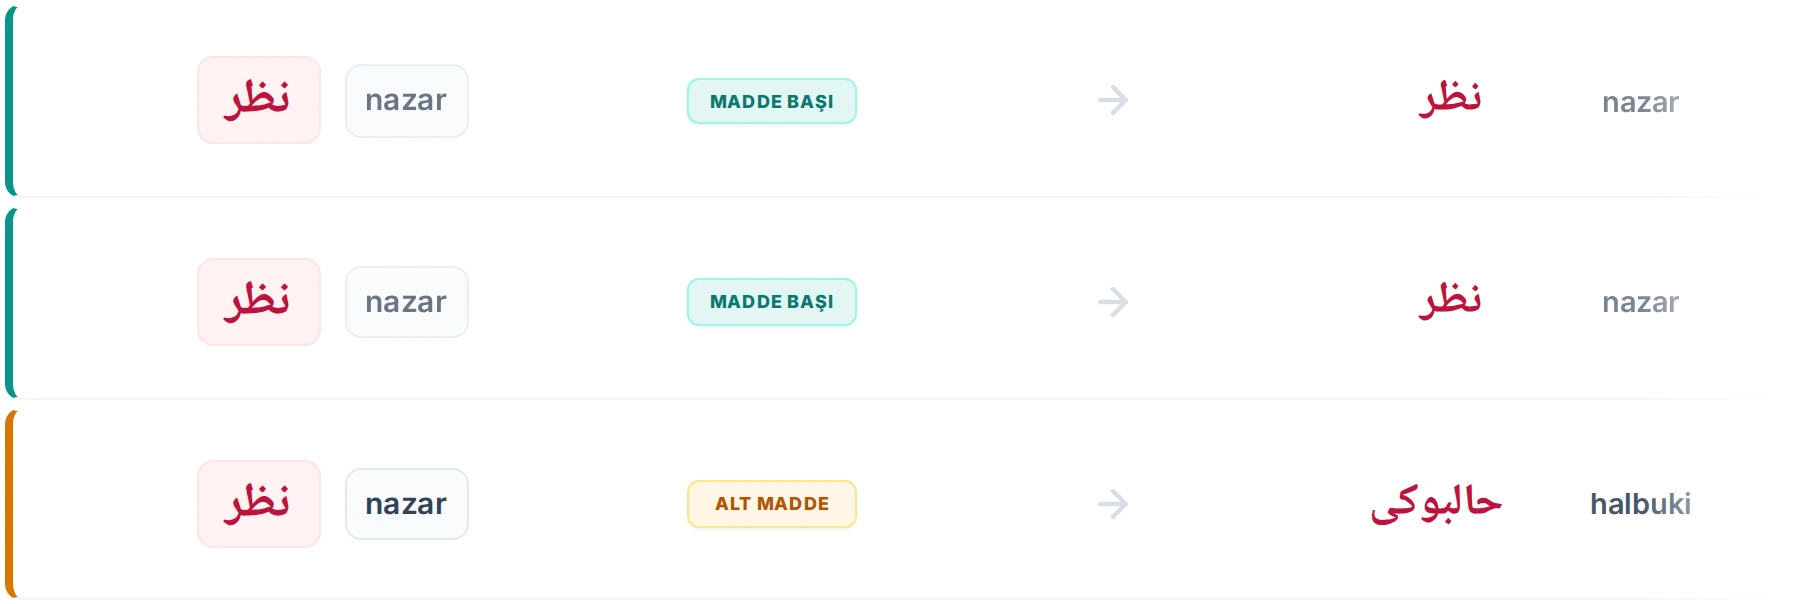
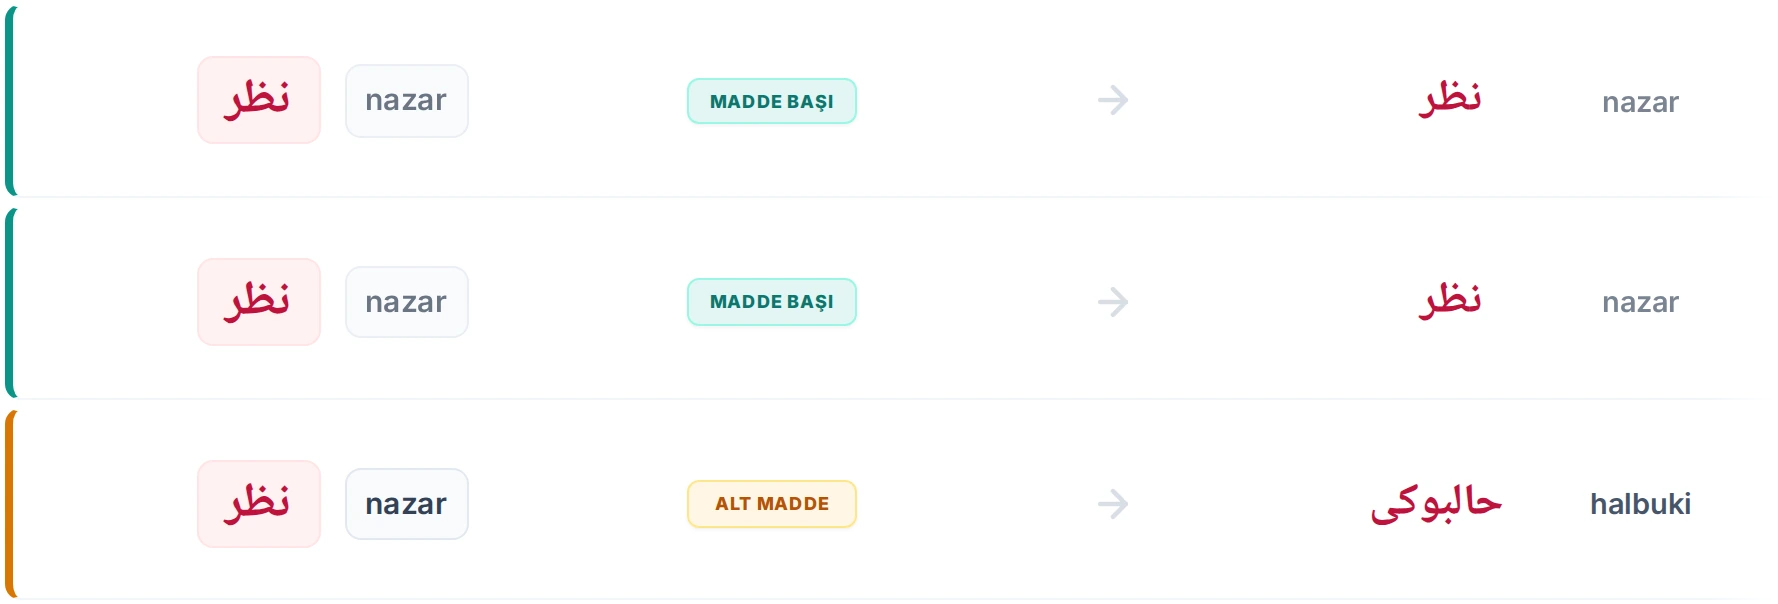
Kilavuz B3: sag kenar sonumlemesi yazilara degmeyecek sekilde daraltildi (halbuki tamamen koyu)

diff --git a/pages/kullanim-kilavuzu-tr.html b/pages/kullanim-kilavuzu-tr.html
@@ -101,7 +101,7 @@ h2{margin:3.1rem 0 1.05rem;padding-top:.25rem}
   <div class="layout">
       <nav class="toc" aria-label="Bu sayfada"><p class="toc-title">Bu sayfada</p><a href="#ana-sayfa">Ana Sayfa</a><a href="#sonuclar">Arama Sonuçları</a><a href="#sozluk-sayfasi">Sözlük Sayfası</a><a href="#cozucu">Kelime Çözücü</a><a href="#cozucu-sonuc">Kelime Çözücü Sonuçları</a></nav>
       <main class="guide-steps">
-    <section aria-labelledby="ana-sayfa"><h2 id="ana-sayfa">Ana Sayfa</h2><p class="section-intro">LexiQamus iki ayrı arama biçimi sunar. <b>Ara</b> sekmesi okuyabildiğiniz bir kelimeyi doğrudan aramak, <b>Kelime Çözücü</b> ise okuyamadığınız bir kelimeyi elinizdeki ipuçlarından yola çıkarak tespit etmek içindir. İki sekme arasında istediğiniz an geçiş yapabilirsiniz.</p><figure class="shot shot-map" style="--nw:1879;--ar:6.8828"><div class="map"><img src="../assets/kilavuz/a-genel.webp?v=2" width="1879" height="273" alt="Ana sayfanın arama alanı: Kelime Çözücü ve Ara sekmeleri, arama kutusu, Ara düğmesi ve sözlük listesi"><a class="pin pin-sec pin-top" href="#cozucu" style="--x:44.39%;--ty:0.0769" aria-label="B">B</a><a class="pin  pin-top" href="#ara-genel" style="--x:55.56%;--ty:0.0769" aria-label="A1">A1</a><a class="pin pin-bottom" href="#osm-ing" style="--x:6.55%;--ty:0.7289" aria-label="A3">A3</a><a class="pin pin-bottom" href="#iki-taraf" style="--x:16.66%;--ty:0.7289" aria-label="A2">A2</a><a class="pin  pin-bottom" href="#klavye" style="--x:55.51%;--ty:0.7363" aria-label="A3">A3</a><a class="pin  pin-bottom" href="#sozlukler" style="--x:83.18%;--ty:0.7326" aria-label="A4">A4</a></div></figure><article class="block" id="ara-genel"><h3>Ara sekmesi</h3><p>Arama satırı tek bir çubuktan oluşur: solda kelimeyi Latin harfleriyle, sağda Osmanlı harfleriyle yazabileceğiniz alanlar, hemen yanında da hangi sözlüklerde arama yapılacağını belirlediğiniz liste yer alır.</p></article><article class="block" id="iki-taraf"><h3>Arama kutusu: iki taraf, iki alfabe</h3><p>Arama kutusu iki yarıdan oluşur. Sol yarıya kelimeyi <b>Latin harfleriyle</b>, sağ yarıya <b>Osmanlı harfleriyle</b> yazarsınız. İkisini birlikte de kullanabilirsiniz; kelimeyi nasıl okuduğunuzu biliyorsanız Latin tarafına yazmanız yeterlidir.</p><figure class="shot " style="--nw:1686;--ar:11.7902"><img src="../assets/kilavuz/a2-1.webp?v=2" width="1686" height="143" loading="lazy" alt=""></figure></article><article class="block" id="osm-ing"><h3>OSM ve İNG: nerede aranacağı</h3><p>Kutunun başındaki <b>OSM</b> ve <b>İNG</b> düğmeleri, yazdığınızın nerede aranacağını belirler. <b>OSM</b> seçiliyken Osmanlıca kelimeler arasında arama yapılır. <b>İNG</b> seçildiğinde ise arama sözlüklerdeki İngilizce tanımların içinde yapılır; böylece bir İngilizce kelimeyi tanımında geçiren bütün maddeleri görebilirsiniz.</p><figure class="shot shot-narrow" style="--nw:520;--ar:3.6364"><img src="../assets/kilavuz/a3-osm-ing.webp" width="520" height="143" loading="lazy" alt="Arama kutusunun başındaki OSM ve İNG düğmeleri"></figure></article><article class="block" id="klavye"><h3>Osmanlıca yazmak</h3><p>Osmanlıca tarafa tıkladığınızda ekran klavyesi açılır. Harflere tek tek tıklayarak yazabilirsiniz.</p><p>Fakat klavyeyi kullanmak zorunda değilsiniz. Her tuşun üzerinde, o harfe karşılık gelen fiziksel klavye tuşu yazılıdır: <b>A</b> tuşu ا, <b>B</b> tuşu ب, <b>SHF+S</b> ص harfini verir. Yani kelimeyi kendi klavyenizden hızlıca yazabilir, sadece emin olmadığınız harfler için ekrana bakabilirsiniz.</p><figure class="shot" style="--nw:1322;--ar:3.4072"><img src="../assets/kilavuz/a3-1.webp?v=3" width="1322" height="388" loading="lazy" alt="Osmanlıca tarafı seçili arama kutusu ve altında açılan ekran klavyesi"></figure></article><article class="block" id="sozlukler"><h3>Sözlük seçimi</h3><p>Öntanımlı olarak bütün sözlüklerde arama yapılır. Listeyi açıp <b>Tümünü Seç</b> işaretini kaldırdığınızda sözlükleri tek tek seçebilirsiniz.</p><p>Bu, aramayı belirli eserlerle sınırlamak istediğinizde işinize yarar: yalnızca seçtiğiniz sözlüklerden gelen sonuçlar listelenir.</p><figure class="shot shot-narrow" style="--s:0.75;--nw:613;--ar:0.8490"><img src="../assets/kilavuz/a4-1.webp?v=2" width="613" height="722" loading="lazy" alt=""></figure></article></section><section aria-labelledby="sonuclar"><h2 id="sonuclar">Arama Sonuçları</h2><p class="section-intro">Her iki arama biçimi de sizi aynı sonuç listesine götürür. Liste dört sütuna ayrılmıştır ve her satır, bir sözlükte geçen tek bir kaydı gösterir.</p><figure class="shot shot-map" style="--cap:100000px;--nw:1689;--ar:0.7008"><div class="map bands"><img src="../assets/kilavuz/b-ara-sonuclari.webp?v=3" width="1689" height="2410" alt="arı araması: arama kutusu, sonuç başlığı ve Tam Eşleşmeler, Çekimli Biçimler, Türemiş Biçimler, İbareler ve Birleşik Kelimeler, Kısmi Eşleşmeler grupları"><a class="pin pin-right" href="#yazilis-okunus" style="--px:0.7851;--ty:0.1510">·</a><a class="pin pin-right" href="#benzer-okunus" style="--px:0.9728;--ty:0.1884">·</a><a class="pin pin-left" href="#latin-okunuslar" style="--px:0.1835;--ty:0.2979">·</a><a class="pin pin-left" href="#iki-bolge" style="--px:0.0278;--ty:0.3432">·</a><a class="pin pin-top" href="#kategoriler" style="--px:0.3825;--ty:0.2154">·</a><a class="pin pin-right" href="#sozluk-kunye" style="--px:0.9372;--ty:0.2979">·</a></div></figure><article class="block" id="yazilis-okunus"><h3>Yazılışa göre ara</h3><p><b>Yazılışa Göre Ara</b>, aradığınız ifadenin muhtemel yazılış ve okunuşlarını düğmeler halinde sunar. Bir düğmeye tıkladığınızda arama o yazılışa göre yenilenir. Bu yazılış ve okunuşlar bir tahmin değildir; sözlükleri dijitalleştirirken sisteme veri olarak girdiğimiz kayıtlardan gelir. Böylece aynı kelimenin farklı imla ve okunuşlarına tek tıkla geçebilirsiniz.</p><figure class="shot" style="--nw:366;--ar:3.6600"><img src="../assets/kilavuz/b1-yazilis.webp?v=2" width="366" height="100" loading="lazy" alt="arı araması: Yazılışa göre ara düğmeleri (ارى, arı, ârî, eri)"></figure></article><article class="block" id="benzer-okunus"><h3>Benzer Okunuş</h3><p>Osmanlı alfabesinde aynı ya da çok yakın okunan birden fazla harf vardır: <span dir="rtl">ث</span> ile <span dir="rtl">س</span>, <span dir="rtl">ت</span> ile <span dir="rtl">ط</span> gibi. Bir kelimeyi duyduğunuz gibi yazdığınızda, sözlükteki imlası sizinkinden farklı olabilir. <b>Benzer Okunuş</b>, aramanızdaki harflerin yerine ses bakımından benzerlerini de koyarak arar; böylece imlası farklı olduğu için gözden kaçacak sonuçları da listeye ekler. Düğmenin yanındaki sayı, bu genişletmenin kaç sonuç getirdiğini gösterir.</p><figure class="shot" style="--nw:687;--ar:7.0102"><img src="../assets/kilavuz/b2-benzer-okunus.webp" width="687" height="98" loading="lazy" alt="Aramayı genişlet: Tam Eşleşme ve Benzer Okunuş düğmeleri"></figure></article><article class="block" id="latin-okunuslar"><h3>Latin okunuşlar</h3><p>Sonuç satırlarında her Osmanlıca kelimenin yanında bir Latin okunuşu yer alır. Bu okunuşların bir kısmı editörlerimiz tarafından tek tek kontrol edilip onaylanmıştır. Geri kalanı ise Osmanlıca yazılıştan hareketle otomatik olarak üretilmiştir ve bu yüzden her zaman isabetli olmayabilir.</p><p>İkisini ilk bakışta ayırt edebilirsiniz: otomatik üretilmiş okunuşlar soluk, editör onaylı okunuşlar koyu renkte gösterilir. Aşağıdaki ilk iki satırdaki <i>nazar</i> otomatik üretilmiştir, üçüncü satırdaki ise editör onaylıdır.</p><figure class="shot" style="--s:0.5;--nw:1800;--ar:2.9801"><img src="../assets/kilavuz/b-okunus-renk.webp" width="1800" height="604" loading="lazy" alt="Soluk renkte otomatik üretilmiş okunuşlar ve koyu renkte editör onaylı okunuş"></figure><p>Bir okunuşun üzerine geldiğinizde yanında küçük bir kutu açılır. Kutunun başındaki etiket okunuşun durumunu söyler: <b>Otomatik üretim</b> ya da <b>Editör onaylı</b>. Altındaki iki düğme ise okunuş hakkında bize geri bildirim vermeniz içindir.</p><figure class="shot shot-narrow" style="--s:0.5;--nw:924;--ar:2.2000"><img src="../assets/kilavuz/b-okunus-kutu.webp" width="924" height="420" loading="lazy" alt="Okunuşun üzerine gelince açılan kutu: Otomatik üretim ve Editör onaylı etiketleri, Doğru ve Düzelt düğmeleri"></figure><p><b>Doğru</b> düğmesiyle okunuşun isabetli olduğunu tek tıkla bildirirsiniz; düğme yeşile döner. Otomatik üretilmiş okunuşlarda bu işaret, hangi okunuşların doğru olduğunu görmemize yardımcı olur.</p><figure class="shot shot-narrow" style="--s:0.5;--nw:924;--ar:4.5743"><img src="../assets/kilavuz/b-okunus-dogru.webp" width="924" height="202" loading="lazy" alt="Doğru düğmesine basılmış hâli"></figure><p><b>Düzelt</b> düğmesi bir bildirim penceresi açar. Pencerenin başında kelimenin Osmanlıca yazılışı ile okunuşu durur, altında üç seçenek bulunur. <b>Yanlış</b> pencere açıldığında seçili gelir ve okunuşun neden yanlış olduğunu açıklamanızı ister; doğrusunu biliyorsanız onu da yazabilirsiniz. Okunuşun doğru olduğunu belirtip bir not eklemek isterseniz <b>Doğru</b>’yu seçersiniz; bu durumda not yazmak isteğe bağlıdır. Doğru ya da yanlış demeden okunuş hakkında söylemek istediğiniz bir şey varsa <b>Görüş</b>’ü kullanırsınız.</p><figure class="shot shot-narrow" style="--s:0.5;--nw:680;--ar:1.0759"><img src="../assets/kilavuz/b-okunus-bildirim.webp" width="680" height="632" loading="lazy" alt="Düzelt ile açılan bildirim penceresi: Doğru, Yanlış, Görüş seçenekleri ve açıklama alanı"></figure><p>Açıklamanızı yazıp <b>Gönder</b>’e bastığınızda bildiriminiz bize ulaşır ve pencerede bir teşekkür mesajı görünür. Vazgeçerseniz <b>İptal</b>’e basmanız yeterlidir.</p><figure class="shot shot-narrow" style="--s:0.5;--nw:680;--ar:1.5888"><img src="../assets/kilavuz/b-okunus-tesekkur.webp" width="680" height="428" loading="lazy" alt="Gönderdikten sonra görünen teşekkür penceresi"></figure></article><article class="block" id="kategoriler"><h3>Kelime kategorileri</h3><p>Kategori etiketi, sonucun maddeyle nasıl bir ilişki içinde olduğunu söyler ve satırın solundaki renkli çizgi de aynı ayrımı yapar.</p><p><b>Madde Başı</b>: kelime, sözlükte kendi adına açılmış bir maddenin başlığıdır.</p><p><b>Alt Madde Başı</b>: kelime, bir madde başının altında ayrıca ele alınmış bir alt maddedir.</p><p><b>İlişkili</b>: kelime maddenin başlığı değildir, madde içinde geçmektedir yahut o maddeyle bağlantılıdır.</p><figure class="shot" style="--nw:1129;--ar:2.7403"><img src="../assets/kilavuz/b3-kategoriler.webp" width="1129" height="412" loading="lazy" alt="Kategori örnekleri: Madde Başı (yeşil), Alt Madde Başı (turuncu) ve İlişkili (mavi) satırları"></figure></article><article class="block" id="iki-bolge"><h3>Satırda iki tıklama bölgesi</h3><p>Her satır iki ayrı bölgeye ayrılır ve hangisine tıkladığınız sizi farklı yere götürür. İmleci satırın üzerine getirdiğinizde hangi bölgede olduğunuz renklenerek belli olur.</p><p>Sol bölge, yani sonuç kelimesinin kendisi: <b>Sonuca git</b>. Orijinal sözlük sayfası açılır ve doğrudan kelimenin geçtiği yer karşınıza gelir. Buradan yukarı kaydırarak maddenin başına da çıkabilirsiniz.</p><p>Sağ bölge, yani madde başı ve sözlük bilgisi: <b>Madde başına git</b>. Aynı sayfa açılır, fakat bu kez doğrudan maddenin başından.</p><figure class="shot " style="--nw:1700;--ar:9.6045"><img src="../assets/kilavuz/c2-1.webp" width="1700" height="177" loading="lazy" alt=""></figure><figure class="shot " style="--nw:1700;--ar:9.6045"><img src="../assets/kilavuz/c2-2.webp" width="1700" height="177" loading="lazy" alt=""></figure></article><article class="block" id="sozluk-kunye"><h3>Sözlük ve künye</h3><p>Sütunun sağ ucundaki düğme o kaydın künye bilgilerini açar. Eserin adı, yazarı, yılı, cildi ve sayfası burada toplu olarak yer alır.</p><p>Künye penceresinde atıf üç ayrı biçimde hazır olarak sunulur: APA, Chicago ve Harvard. Kullanacağınız biçimi seçip tek düğmeyle kopyalayabilirsiniz.</p><figure class="shot shot-narrow" style="--s:1;--nw:249;--ar:3.1519"><img src="../assets/kilavuz/b-kunye-hucre.webp" width="249" height="79" loading="lazy" alt="Sözlük sütunu: Kamus-ı Türki, 1899, sayfa 31 ve kopyalama düğmesi"></figure><figure class="shot" style="--s:.5;--nw:1242;--ar:1.0991"><img src="../assets/kilavuz/b-kunye-pencere.webp" width="1242" height="1130" loading="lazy" alt="Künye Bilgileri penceresi: Kamus-ı Türki, Şemseddin Sami, 1899, cilt 1, sayfa 31"></figure></article><article class="block" id="tara"><h3>Benzer Eşleşmeleri Tara</h3><p>Aradığınızı listede bulamadıysanız sayfanın altındaki bu düğmeye basın.</p><p>LexiQamus, girdiğiniz yazılışa harf harf yakın duran kelimeleri tarar ve numaralı bir liste halinde önünüze getirir. Yanlış okunmuş tek bir harf yüzünden gözden kaçan kelime çoğu zaman bu listede çıkar.</p><figure class="shot shot-narrow" style="--s:0.75;--nw:387;--ar:3.7212"><img src="../assets/kilavuz/c7-1.webp?v=2" width="387" height="104" loading="lazy" alt=""></figure><figure class="shot shot-narrow" style="--s:.5;--cap:100000px;--nw:880;--ar:0.4143"><img src="../assets/kilavuz/b-bunu-mu.webp?v=2" width="880" height="2124" loading="lazy" alt="Bunu mu demek istediniz? listesi: arı aramasına yakın 14 yazılış ve okunuşları"></figure></article></section><section aria-labelledby="sozluk-sayfasi"><h2 id="sozluk-sayfasi">Sözlük Sayfası</h2><p class="section-intro">Bir sonuca yahut madde başına tıkladığınızda sözlüğün orijinal sayfası bir pencerede açılır. Bu pencere yalnızca taramayı göstermez: o sayfada dijitalleştirilmiş kelimeleri tarama üzerinde işaretler ve her birinin dijital karşılığını gösterir.</p><article class="block" id="dilim-sutun-sayfa"><h3>Dilim, Sütun, Sayfa</h3><p>Pencere ilk açıldığında <b>Dilim</b> görünümü etkindir. Alttaki şerit, aradığınız yerin sözlüğün kaçıncı sayfasında, hangi sütununda ve o sütunun kaçıncı diliminde olduğunu söyler.</p><p><b>Sütun</b>'a tıkladığınızda sütunun tamamı açılır. <b>Sayfa</b>'ya tıkladığınızda ise sayfanın tamamını görürsünüz. Dijitalleştirilmiş kelimeler üç görünümde de işaretli kalır.</p><figure class="shot " style="--nw:1428;--ar:1.8889"><img src="../assets/kilavuz/d1-1.webp" width="1428" height="756" loading="lazy" alt=""></figure><figure class="shot " style="--nw:1432;--ar:1.6947"><img src="../assets/kilavuz/d1-2.webp" width="1432" height="845" loading="lazy" alt=""></figure><figure class="shot " style="--nw:1436;--ar:1.6974"><img src="../assets/kilavuz/d1-3.webp" width="1436" height="846" loading="lazy" alt=""></figure></article><article class="block" id="renkli-kutular"><h3>Renkli kutular</h3><p>Maddede dijitalleştirilmiş olan kelimeler tarama üzerinde kutu içine alınır. Kutuların rengi kelime kategorisine göre değişir; sonuç listesindeki kategori ayrımının aynısı burada da geçerlidir.</p><p>Gri duran kelimeler de dijitalleştirilmiştir. Üzerlerine geldiğinizde renklenir ve dijital karşılıkları görünür.</p><figure class="shot " style="--nw:947;--ar:1.3886"><img src="../assets/kilavuz/d2-1.webp" width="947" height="682" loading="lazy" alt=""></figure></article><article class="block" id="kelime-uzerine"><h3>Kelimenin dijital karşılığı</h3><p>Bir kutunun üzerine geldiğinizde kelimenin Osmanlıca yazılışı ve Latin okunuşu alt alta belirir.</p><p>Kelime bir öbeğin parçasıysa iki katman birden görürsünüz: üstte imlecin bulunduğu kelimenin dijitali, altta öbeğin tamamının dijitali.</p><figure class="shot shot-narrow" style="--nw:222;--ar:0.6491"><img src="../assets/kilavuz/d3-1.webp" width="222" height="342" loading="lazy" alt=""></figure><figure class="shot shot-narrow" style="--nw:357;--ar:1.0142"><img src="../assets/kilavuz/d3-2.webp" width="357" height="352" loading="lazy" alt=""></figure></article><article class="block" id="kelimeye-tikla"><h3>Kelimeye tıklamak</h3><p>Tarama üzerindeki bir kelimeye yahut beliren dijital değerlerin üzerine tıkladığınızda o kelime için yeni bir arama başlar ve yeni sekmede açılır. Böylece okuduğunuz maddeden ayrılmadan yan yollara girebilirsiniz.</p><figure class="shot shot-narrow" style="--nw:357;--ar:1.0142"><img src="../assets/kilavuz/d4-1.webp" width="357" height="352" loading="lazy" alt=""></figure></article><article class="block" id="hata-bildir"><h3>Hata bildirme</h3><p>Dijitalleştirmede bir hata olduğunu düşünüyorsanız kelimenin üzerine gelin ve yanında beliren uyarı işaretine basın.</p><p>Açılan pencerede kelime hazır olarak gelir. Altındaki alana hatayı yahut önerdiğiniz düzeltmeyi yazıp gönderirsiniz.</p><figure class="shot shot-narrow" style="--nw:301;--ar:0.8776"><img src="../assets/kilavuz/d5-1.webp" width="301" height="343" loading="lazy" alt=""></figure><figure class="shot " style="--nw:756;--ar:1.8217"><img src="../assets/kilavuz/d5-2.webp" width="756" height="415" loading="lazy" alt=""></figure></article><article class="block" id="madde-gezinme"><h3>Önceki ve sonraki madde</h3><p>Pencerenin iki yanındaki oklarla maddeler arasında tek tıkla gezinebilirsiniz. Oklar dilim, sütun ve sayfa görünümlerinin hepsinde çalışır.</p><figure class="shot shot-narrow" style="--nw:413;--ar:1.9390"><img src="../assets/kilavuz/d6-1.webp" width="413" height="213" loading="lazy" alt=""></figure></article></section><section aria-labelledby="cozucu"><h2 id="cozucu">Kelime Çözücü</h2><p class="section-intro">El yazması bir metinde okuyamadığınız bir kelimeyle karşılaştığınızda kullanacağınız araç budur. Okuyabildiğiniz harfleri girer, okuyamadıklarınız için işaret bırakırsınız; LexiQamus bu ölçütlere uyan kelimeleri listeler.</p><figure class="shot shot-map" style="--nw:1484;--ar:1.2938"><div class="map"><img src="../assets/kilavuz/d-cozucu-genel.webp" width="1484" height="1147" alt="Kelime Çözücü: harf kutuları ve altında açılan çözücü klavyesi"><a class="pin pin-top" href="#kutular" style="--x:47.98%;--ty:0.0262" aria-label="B1">B1</a><a class="pin pin-bottom" href="#cozucu-klavye" style="--x:50.00%;--ty:0.9738" aria-label="B2">B2</a></div></figure><article class="block" id="kutular"><h3>Kutular</h3><p>Her kutu bir karakteri temsil eder. Boş bırakılan kutu boşluk demektir, dolayısıyla tek kelimeleri olduğu gibi kelime öbeklerini de arayabilirsiniz.</p><p>Kutuların arasındaki <b>+</b> düğmeleriyle araya yeni kutu eklersiniz. Kutuların altındaki zincir işaretleri harflerin bitişik olup olmadığını gösterir; bunu belirttiğinizde sonuçlar daralır.</p></article><article class="block" id="cozucu-klavye"><h3>Çözücü klavyesi</h3><p>Bir kutuya tıkladığınızda harf klavyesi açılır. Buradan hem normal harfleri hem de benzer şekilli harfleri temsil eden özel karakterleri girebilirsiniz.</p><p>Üstteki iki yeşil tuş önemlidir. <b>*</b> okunamayan tek bir harf demektir. <b>∞</b> ise adedi bilinmeyen, bir veya birden fazla okunamayan harf anlamına gelir. Aramanız sonuç vermiyorsa, emin olmadığınız kısma bu işaretleri koyarak aramayı genişletebilirsiniz.</p><p>Bir kutuya birden fazla harf de girebilirsiniz. و, د ve ر gibi birbirine karışan harflerde, ihtimallerin hepsini aynı kutuya koyup hepsini birden aratmış olursunuz.</p></article><article class="block" id="ipucu-dolu"><h3>Doldurulmuş bir örnek</h3><p>Aşağıda okunabilen harflerin girildiği, okunamayan bir harf için <b>*</b> bırakılan ve harfler arası bitişiklik durumunun işaretlendiği bir çözücü satırı görünüyor. <b>Ara</b> düğmesine bastığınızda bu ölçütlere uyan kelimeler listelenir.</p><figure class="shot " style="--s:.68;--nw:669;--ar:5.3095"><img src="../assets/kilavuz/b3-1.webp?v=2" width="669" height="126" loading="lazy" alt=""></figure></article><article class="block" id="cozucu-sonuclar"><h3>Sonuçlar</h3><p><b>Sonuç</b>: aradığınız ölçütlere uyan kelimenin kendisi, Osmanlıca yazılışı ve Latin okunuşuyla birlikte.</p><p><b>Kategori</b>: bu kelimenin bulunduğu sözlük maddesiyle ilişkisi.</p><p><b>Madde Başı</b>: kelimenin geçtiği maddenin başlığı. Sonuç kelimesinin kendisi bir madde başı olabileceği gibi, başka bir maddenin içinde de geçiyor olabilir.</p><p><b>Sözlük</b>: kaydın alındığı eser, basım yılı ve sayfa numarası.</p><figure class="shot " style="--nw:1680;--ar:1.1483"><img src="../assets/kilavuz/c1-1.webp?v=10" width="1680" height="1463" loading="lazy" alt=""></figure></article></section><section aria-labelledby="cozucu-sonuc"><h2 id="cozucu-sonuc">Kelime Çözücü Sonuçları</h2><p class="section-intro">Çözücüyle yapılan aramanın sonuç sayfası, yukarıda anlatılan listeyle aynı şekilde çalışır. Yalnızca iki farkı vardır.</p><article class="block" id="ipuclarina-gore"><h3>İpuçlarına göre</h3><p>Sonuçların üstünde, aramayı hangi ipuçlarıyla yaptığınız kutu dizisi halinde durur. Böylece listeye bakarken hangi harfleri girdiğinizi, nereye <b>*</b> veya <b>∞</b> koyduğunuzu görebilirsiniz.</p><p>Sonuç sayısının yanındaki <b>İpuçlarına göre</b> ifadesi de listenin bu ölçütlere göre oluşturulduğunu belirtir.</p><figure class="shot " style="--nw:1664;--ar:4.9672"><img src="../assets/kilavuz/e1-1.webp?v=2" width="1664" height="335" loading="lazy" alt=""></figure></article><article class="block" id="daha-fazla"><h3>Daha fazla sonuç</h3><p>Çözücü aramaları çok sayıda sonuç verebildiği için liste bir kısmıyla açılır. Sayfanın altındaki düğme kaç sonucun gösterildiğini ve geriye kaç tane kaldığını söyler; bastığınızda listenin devamı yüklenir.</p><figure class="shot shot-narrow" style="--nw:750;--ar:5.0000"><img src="../assets/kilavuz/e2-1.webp" width="750" height="150" loading="lazy" alt=""></figure></article></section>
+    <section aria-labelledby="ana-sayfa"><h2 id="ana-sayfa">Ana Sayfa</h2><p class="section-intro">LexiQamus iki ayrı arama biçimi sunar. <b>Ara</b> sekmesi okuyabildiğiniz bir kelimeyi doğrudan aramak, <b>Kelime Çözücü</b> ise okuyamadığınız bir kelimeyi elinizdeki ipuçlarından yola çıkarak tespit etmek içindir. İki sekme arasında istediğiniz an geçiş yapabilirsiniz.</p><figure class="shot shot-map" style="--nw:1879;--ar:6.8828"><div class="map"><img src="../assets/kilavuz/a-genel.webp?v=2" width="1879" height="273" alt="Ana sayfanın arama alanı: Kelime Çözücü ve Ara sekmeleri, arama kutusu, Ara düğmesi ve sözlük listesi"><a class="pin pin-sec pin-top" href="#cozucu" style="--x:44.39%;--ty:0.0769" aria-label="B">B</a><a class="pin  pin-top" href="#ara-genel" style="--x:55.56%;--ty:0.0769" aria-label="A1">A1</a><a class="pin pin-bottom" href="#osm-ing" style="--x:6.55%;--ty:0.7289" aria-label="A3">A3</a><a class="pin pin-bottom" href="#iki-taraf" style="--x:16.66%;--ty:0.7289" aria-label="A2">A2</a><a class="pin  pin-bottom" href="#klavye" style="--x:55.51%;--ty:0.7363" aria-label="A3">A3</a><a class="pin  pin-bottom" href="#sozlukler" style="--x:83.18%;--ty:0.7326" aria-label="A4">A4</a></div></figure><article class="block" id="ara-genel"><h3>Ara sekmesi</h3><p>Arama satırı tek bir çubuktan oluşur: solda kelimeyi Latin harfleriyle, sağda Osmanlı harfleriyle yazabileceğiniz alanlar, hemen yanında da hangi sözlüklerde arama yapılacağını belirlediğiniz liste yer alır.</p></article><article class="block" id="iki-taraf"><h3>Arama kutusu: iki taraf, iki alfabe</h3><p>Arama kutusu iki yarıdan oluşur. Sol yarıya kelimeyi <b>Latin harfleriyle</b>, sağ yarıya <b>Osmanlı harfleriyle</b> yazarsınız. İkisini birlikte de kullanabilirsiniz; kelimeyi nasıl okuduğunuzu biliyorsanız Latin tarafına yazmanız yeterlidir.</p><figure class="shot " style="--nw:1686;--ar:11.7902"><img src="../assets/kilavuz/a2-1.webp?v=2" width="1686" height="143" loading="lazy" alt=""></figure></article><article class="block" id="osm-ing"><h3>OSM ve İNG: nerede aranacağı</h3><p>Kutunun başındaki <b>OSM</b> ve <b>İNG</b> düğmeleri, yazdığınızın nerede aranacağını belirler. <b>OSM</b> seçiliyken Osmanlıca kelimeler arasında arama yapılır. <b>İNG</b> seçildiğinde ise arama sözlüklerdeki İngilizce tanımların içinde yapılır; böylece bir İngilizce kelimeyi tanımında geçiren bütün maddeleri görebilirsiniz.</p><figure class="shot shot-narrow" style="--nw:520;--ar:3.6364"><img src="../assets/kilavuz/a3-osm-ing.webp" width="520" height="143" loading="lazy" alt="Arama kutusunun başındaki OSM ve İNG düğmeleri"></figure></article><article class="block" id="klavye"><h3>Osmanlıca yazmak</h3><p>Osmanlıca tarafa tıkladığınızda ekran klavyesi açılır. Harflere tek tek tıklayarak yazabilirsiniz.</p><p>Fakat klavyeyi kullanmak zorunda değilsiniz. Her tuşun üzerinde, o harfe karşılık gelen fiziksel klavye tuşu yazılıdır: <b>A</b> tuşu ا, <b>B</b> tuşu ب, <b>SHF+S</b> ص harfini verir. Yani kelimeyi kendi klavyenizden hızlıca yazabilir, sadece emin olmadığınız harfler için ekrana bakabilirsiniz.</p><figure class="shot" style="--nw:1322;--ar:3.4072"><img src="../assets/kilavuz/a3-1.webp?v=3" width="1322" height="388" loading="lazy" alt="Osmanlıca tarafı seçili arama kutusu ve altında açılan ekran klavyesi"></figure></article><article class="block" id="sozlukler"><h3>Sözlük seçimi</h3><p>Öntanımlı olarak bütün sözlüklerde arama yapılır. Listeyi açıp <b>Tümünü Seç</b> işaretini kaldırdığınızda sözlükleri tek tek seçebilirsiniz.</p><p>Bu, aramayı belirli eserlerle sınırlamak istediğinizde işinize yarar: yalnızca seçtiğiniz sözlüklerden gelen sonuçlar listelenir.</p><figure class="shot shot-narrow" style="--s:0.75;--nw:613;--ar:0.8490"><img src="../assets/kilavuz/a4-1.webp?v=2" width="613" height="722" loading="lazy" alt=""></figure></article></section><section aria-labelledby="sonuclar"><h2 id="sonuclar">Arama Sonuçları</h2><p class="section-intro">Her iki arama biçimi de sizi aynı sonuç listesine götürür. Liste dört sütuna ayrılmıştır ve her satır, bir sözlükte geçen tek bir kaydı gösterir.</p><figure class="shot shot-map" style="--cap:100000px;--nw:1689;--ar:0.7008"><div class="map bands"><img src="../assets/kilavuz/b-ara-sonuclari.webp?v=3" width="1689" height="2410" alt="arı araması: arama kutusu, sonuç başlığı ve Tam Eşleşmeler, Çekimli Biçimler, Türemiş Biçimler, İbareler ve Birleşik Kelimeler, Kısmi Eşleşmeler grupları"><a class="pin pin-right" href="#yazilis-okunus" style="--px:0.7851;--ty:0.1510">·</a><a class="pin pin-right" href="#benzer-okunus" style="--px:0.9728;--ty:0.1884">·</a><a class="pin pin-left" href="#latin-okunuslar" style="--px:0.1835;--ty:0.2979">·</a><a class="pin pin-left" href="#iki-bolge" style="--px:0.0278;--ty:0.3432">·</a><a class="pin pin-top" href="#kategoriler" style="--px:0.3825;--ty:0.2154">·</a><a class="pin pin-right" href="#sozluk-kunye" style="--px:0.9372;--ty:0.2979">·</a></div></figure><article class="block" id="yazilis-okunus"><h3>Yazılışa göre ara</h3><p><b>Yazılışa Göre Ara</b>, aradığınız ifadenin muhtemel yazılış ve okunuşlarını düğmeler halinde sunar. Bir düğmeye tıkladığınızda arama o yazılışa göre yenilenir. Bu yazılış ve okunuşlar bir tahmin değildir; sözlükleri dijitalleştirirken sisteme veri olarak girdiğimiz kayıtlardan gelir. Böylece aynı kelimenin farklı imla ve okunuşlarına tek tıkla geçebilirsiniz.</p><figure class="shot" style="--nw:366;--ar:3.6600"><img src="../assets/kilavuz/b1-yazilis.webp?v=2" width="366" height="100" loading="lazy" alt="arı araması: Yazılışa göre ara düğmeleri (ارى, arı, ârî, eri)"></figure></article><article class="block" id="benzer-okunus"><h3>Benzer Okunuş</h3><p>Osmanlı alfabesinde aynı ya da çok yakın okunan birden fazla harf vardır: <span dir="rtl">ث</span> ile <span dir="rtl">س</span>, <span dir="rtl">ت</span> ile <span dir="rtl">ط</span> gibi. Bir kelimeyi duyduğunuz gibi yazdığınızda, sözlükteki imlası sizinkinden farklı olabilir. <b>Benzer Okunuş</b>, aramanızdaki harflerin yerine ses bakımından benzerlerini de koyarak arar; böylece imlası farklı olduğu için gözden kaçacak sonuçları da listeye ekler. Düğmenin yanındaki sayı, bu genişletmenin kaç sonuç getirdiğini gösterir.</p><figure class="shot" style="--nw:687;--ar:7.0102"><img src="../assets/kilavuz/b2-benzer-okunus.webp" width="687" height="98" loading="lazy" alt="Aramayı genişlet: Tam Eşleşme ve Benzer Okunuş düğmeleri"></figure></article><article class="block" id="latin-okunuslar"><h3>Latin okunuşlar</h3><p>Sonuç satırlarında her Osmanlıca kelimenin yanında bir Latin okunuşu yer alır. Bu okunuşların bir kısmı editörlerimiz tarafından tek tek kontrol edilip onaylanmıştır. Geri kalanı ise Osmanlıca yazılıştan hareketle otomatik olarak üretilmiştir ve bu yüzden her zaman isabetli olmayabilir.</p><p>İkisini ilk bakışta ayırt edebilirsiniz: otomatik üretilmiş okunuşlar soluk, editör onaylı okunuşlar koyu renkte gösterilir. Aşağıdaki ilk iki satırdaki <i>nazar</i> otomatik üretilmiştir, üçüncü satırdaki ise editör onaylıdır.</p><figure class="shot" style="--s:0.5;--nw:1778;--ar:2.9437"><img src="../assets/kilavuz/b-okunus-renk.webp?v=2" width="1778" height="604" loading="lazy" alt="Soluk renkte otomatik üretilmiş okunuşlar ve koyu renkte editör onaylı okunuş"></figure><p>Bir okunuşun üzerine geldiğinizde yanında küçük bir kutu açılır. Kutunun başındaki etiket okunuşun durumunu söyler: <b>Otomatik üretim</b> ya da <b>Editör onaylı</b>. Altındaki iki düğme ise okunuş hakkında bize geri bildirim vermeniz içindir.</p><figure class="shot shot-narrow" style="--s:0.5;--nw:924;--ar:2.2000"><img src="../assets/kilavuz/b-okunus-kutu.webp?v=2" width="924" height="420" loading="lazy" alt="Okunuşun üzerine gelince açılan kutu: Otomatik üretim ve Editör onaylı etiketleri, Doğru ve Düzelt düğmeleri"></figure><p><b>Doğru</b> düğmesiyle okunuşun isabetli olduğunu tek tıkla bildirirsiniz; düğme yeşile döner. Otomatik üretilmiş okunuşlarda bu işaret, hangi okunuşların doğru olduğunu görmemize yardımcı olur.</p><figure class="shot shot-narrow" style="--s:0.5;--nw:924;--ar:4.5743"><img src="../assets/kilavuz/b-okunus-dogru.webp?v=2" width="924" height="202" loading="lazy" alt="Doğru düğmesine basılmış hâli"></figure><p><b>Düzelt</b> düğmesi bir bildirim penceresi açar. Pencerenin başında kelimenin Osmanlıca yazılışı ile okunuşu durur, altında üç seçenek bulunur. <b>Yanlış</b> pencere açıldığında seçili gelir ve okunuşun neden yanlış olduğunu açıklamanızı ister; doğrusunu biliyorsanız onu da yazabilirsiniz. Okunuşun doğru olduğunu belirtip bir not eklemek isterseniz <b>Doğru</b>’yu seçersiniz; bu durumda not yazmak isteğe bağlıdır. Doğru ya da yanlış demeden okunuş hakkında söylemek istediğiniz bir şey varsa <b>Görüş</b>’ü kullanırsınız.</p><figure class="shot shot-narrow" style="--s:0.5;--nw:680;--ar:1.0759"><img src="../assets/kilavuz/b-okunus-bildirim.webp" width="680" height="632" loading="lazy" alt="Düzelt ile açılan bildirim penceresi: Doğru, Yanlış, Görüş seçenekleri ve açıklama alanı"></figure><p>Açıklamanızı yazıp <b>Gönder</b>’e bastığınızda bildiriminiz bize ulaşır ve pencerede bir teşekkür mesajı görünür. Vazgeçerseniz <b>İptal</b>’e basmanız yeterlidir.</p><figure class="shot shot-narrow" style="--s:0.5;--nw:680;--ar:1.5888"><img src="../assets/kilavuz/b-okunus-tesekkur.webp" width="680" height="428" loading="lazy" alt="Gönderdikten sonra görünen teşekkür penceresi"></figure></article><article class="block" id="kategoriler"><h3>Kelime kategorileri</h3><p>Kategori etiketi, sonucun maddeyle nasıl bir ilişki içinde olduğunu söyler ve satırın solundaki renkli çizgi de aynı ayrımı yapar.</p><p><b>Madde Başı</b>: kelime, sözlükte kendi adına açılmış bir maddenin başlığıdır.</p><p><b>Alt Madde Başı</b>: kelime, bir madde başının altında ayrıca ele alınmış bir alt maddedir.</p><p><b>İlişkili</b>: kelime maddenin başlığı değildir, madde içinde geçmektedir yahut o maddeyle bağlantılıdır.</p><figure class="shot" style="--nw:1129;--ar:2.7403"><img src="../assets/kilavuz/b3-kategoriler.webp" width="1129" height="412" loading="lazy" alt="Kategori örnekleri: Madde Başı (yeşil), Alt Madde Başı (turuncu) ve İlişkili (mavi) satırları"></figure></article><article class="block" id="iki-bolge"><h3>Satırda iki tıklama bölgesi</h3><p>Her satır iki ayrı bölgeye ayrılır ve hangisine tıkladığınız sizi farklı yere götürür. İmleci satırın üzerine getirdiğinizde hangi bölgede olduğunuz renklenerek belli olur.</p><p>Sol bölge, yani sonuç kelimesinin kendisi: <b>Sonuca git</b>. Orijinal sözlük sayfası açılır ve doğrudan kelimenin geçtiği yer karşınıza gelir. Buradan yukarı kaydırarak maddenin başına da çıkabilirsiniz.</p><p>Sağ bölge, yani madde başı ve sözlük bilgisi: <b>Madde başına git</b>. Aynı sayfa açılır, fakat bu kez doğrudan maddenin başından.</p><figure class="shot " style="--nw:1700;--ar:9.6045"><img src="../assets/kilavuz/c2-1.webp" width="1700" height="177" loading="lazy" alt=""></figure><figure class="shot " style="--nw:1700;--ar:9.6045"><img src="../assets/kilavuz/c2-2.webp" width="1700" height="177" loading="lazy" alt=""></figure></article><article class="block" id="sozluk-kunye"><h3>Sözlük ve künye</h3><p>Sütunun sağ ucundaki düğme o kaydın künye bilgilerini açar. Eserin adı, yazarı, yılı, cildi ve sayfası burada toplu olarak yer alır.</p><p>Künye penceresinde atıf üç ayrı biçimde hazır olarak sunulur: APA, Chicago ve Harvard. Kullanacağınız biçimi seçip tek düğmeyle kopyalayabilirsiniz.</p><figure class="shot shot-narrow" style="--s:1;--nw:249;--ar:3.1519"><img src="../assets/kilavuz/b-kunye-hucre.webp" width="249" height="79" loading="lazy" alt="Sözlük sütunu: Kamus-ı Türki, 1899, sayfa 31 ve kopyalama düğmesi"></figure><figure class="shot" style="--s:.5;--nw:1242;--ar:1.0991"><img src="../assets/kilavuz/b-kunye-pencere.webp" width="1242" height="1130" loading="lazy" alt="Künye Bilgileri penceresi: Kamus-ı Türki, Şemseddin Sami, 1899, cilt 1, sayfa 31"></figure></article><article class="block" id="tara"><h3>Benzer Eşleşmeleri Tara</h3><p>Aradığınızı listede bulamadıysanız sayfanın altındaki bu düğmeye basın.</p><p>LexiQamus, girdiğiniz yazılışa harf harf yakın duran kelimeleri tarar ve numaralı bir liste halinde önünüze getirir. Yanlış okunmuş tek bir harf yüzünden gözden kaçan kelime çoğu zaman bu listede çıkar.</p><figure class="shot shot-narrow" style="--s:0.75;--nw:387;--ar:3.7212"><img src="../assets/kilavuz/c7-1.webp?v=2" width="387" height="104" loading="lazy" alt=""></figure><figure class="shot shot-narrow" style="--s:.5;--cap:100000px;--nw:880;--ar:0.4143"><img src="../assets/kilavuz/b-bunu-mu.webp?v=2" width="880" height="2124" loading="lazy" alt="Bunu mu demek istediniz? listesi: arı aramasına yakın 14 yazılış ve okunuşları"></figure></article></section><section aria-labelledby="sozluk-sayfasi"><h2 id="sozluk-sayfasi">Sözlük Sayfası</h2><p class="section-intro">Bir sonuca yahut madde başına tıkladığınızda sözlüğün orijinal sayfası bir pencerede açılır. Bu pencere yalnızca taramayı göstermez: o sayfada dijitalleştirilmiş kelimeleri tarama üzerinde işaretler ve her birinin dijital karşılığını gösterir.</p><article class="block" id="dilim-sutun-sayfa"><h3>Dilim, Sütun, Sayfa</h3><p>Pencere ilk açıldığında <b>Dilim</b> görünümü etkindir. Alttaki şerit, aradığınız yerin sözlüğün kaçıncı sayfasında, hangi sütununda ve o sütunun kaçıncı diliminde olduğunu söyler.</p><p><b>Sütun</b>'a tıkladığınızda sütunun tamamı açılır. <b>Sayfa</b>'ya tıkladığınızda ise sayfanın tamamını görürsünüz. Dijitalleştirilmiş kelimeler üç görünümde de işaretli kalır.</p><figure class="shot " style="--nw:1428;--ar:1.8889"><img src="../assets/kilavuz/d1-1.webp" width="1428" height="756" loading="lazy" alt=""></figure><figure class="shot " style="--nw:1432;--ar:1.6947"><img src="../assets/kilavuz/d1-2.webp" width="1432" height="845" loading="lazy" alt=""></figure><figure class="shot " style="--nw:1436;--ar:1.6974"><img src="../assets/kilavuz/d1-3.webp" width="1436" height="846" loading="lazy" alt=""></figure></article><article class="block" id="renkli-kutular"><h3>Renkli kutular</h3><p>Maddede dijitalleştirilmiş olan kelimeler tarama üzerinde kutu içine alınır. Kutuların rengi kelime kategorisine göre değişir; sonuç listesindeki kategori ayrımının aynısı burada da geçerlidir.</p><p>Gri duran kelimeler de dijitalleştirilmiştir. Üzerlerine geldiğinizde renklenir ve dijital karşılıkları görünür.</p><figure class="shot " style="--nw:947;--ar:1.3886"><img src="../assets/kilavuz/d2-1.webp" width="947" height="682" loading="lazy" alt=""></figure></article><article class="block" id="kelime-uzerine"><h3>Kelimenin dijital karşılığı</h3><p>Bir kutunun üzerine geldiğinizde kelimenin Osmanlıca yazılışı ve Latin okunuşu alt alta belirir.</p><p>Kelime bir öbeğin parçasıysa iki katman birden görürsünüz: üstte imlecin bulunduğu kelimenin dijitali, altta öbeğin tamamının dijitali.</p><figure class="shot shot-narrow" style="--nw:222;--ar:0.6491"><img src="../assets/kilavuz/d3-1.webp" width="222" height="342" loading="lazy" alt=""></figure><figure class="shot shot-narrow" style="--nw:357;--ar:1.0142"><img src="../assets/kilavuz/d3-2.webp" width="357" height="352" loading="lazy" alt=""></figure></article><article class="block" id="kelimeye-tikla"><h3>Kelimeye tıklamak</h3><p>Tarama üzerindeki bir kelimeye yahut beliren dijital değerlerin üzerine tıkladığınızda o kelime için yeni bir arama başlar ve yeni sekmede açılır. Böylece okuduğunuz maddeden ayrılmadan yan yollara girebilirsiniz.</p><figure class="shot shot-narrow" style="--nw:357;--ar:1.0142"><img src="../assets/kilavuz/d4-1.webp" width="357" height="352" loading="lazy" alt=""></figure></article><article class="block" id="hata-bildir"><h3>Hata bildirme</h3><p>Dijitalleştirmede bir hata olduğunu düşünüyorsanız kelimenin üzerine gelin ve yanında beliren uyarı işaretine basın.</p><p>Açılan pencerede kelime hazır olarak gelir. Altındaki alana hatayı yahut önerdiğiniz düzeltmeyi yazıp gönderirsiniz.</p><figure class="shot shot-narrow" style="--nw:301;--ar:0.8776"><img src="../assets/kilavuz/d5-1.webp" width="301" height="343" loading="lazy" alt=""></figure><figure class="shot " style="--nw:756;--ar:1.8217"><img src="../assets/kilavuz/d5-2.webp" width="756" height="415" loading="lazy" alt=""></figure></article><article class="block" id="madde-gezinme"><h3>Önceki ve sonraki madde</h3><p>Pencerenin iki yanındaki oklarla maddeler arasında tek tıkla gezinebilirsiniz. Oklar dilim, sütun ve sayfa görünümlerinin hepsinde çalışır.</p><figure class="shot shot-narrow" style="--nw:413;--ar:1.9390"><img src="../assets/kilavuz/d6-1.webp" width="413" height="213" loading="lazy" alt=""></figure></article></section><section aria-labelledby="cozucu"><h2 id="cozucu">Kelime Çözücü</h2><p class="section-intro">El yazması bir metinde okuyamadığınız bir kelimeyle karşılaştığınızda kullanacağınız araç budur. Okuyabildiğiniz harfleri girer, okuyamadıklarınız için işaret bırakırsınız; LexiQamus bu ölçütlere uyan kelimeleri listeler.</p><figure class="shot shot-map" style="--nw:1484;--ar:1.2938"><div class="map"><img src="../assets/kilavuz/d-cozucu-genel.webp" width="1484" height="1147" alt="Kelime Çözücü: harf kutuları ve altında açılan çözücü klavyesi"><a class="pin pin-top" href="#kutular" style="--x:47.98%;--ty:0.0262" aria-label="B1">B1</a><a class="pin pin-bottom" href="#cozucu-klavye" style="--x:50.00%;--ty:0.9738" aria-label="B2">B2</a></div></figure><article class="block" id="kutular"><h3>Kutular</h3><p>Her kutu bir karakteri temsil eder. Boş bırakılan kutu boşluk demektir, dolayısıyla tek kelimeleri olduğu gibi kelime öbeklerini de arayabilirsiniz.</p><p>Kutuların arasındaki <b>+</b> düğmeleriyle araya yeni kutu eklersiniz. Kutuların altındaki zincir işaretleri harflerin bitişik olup olmadığını gösterir; bunu belirttiğinizde sonuçlar daralır.</p></article><article class="block" id="cozucu-klavye"><h3>Çözücü klavyesi</h3><p>Bir kutuya tıkladığınızda harf klavyesi açılır. Buradan hem normal harfleri hem de benzer şekilli harfleri temsil eden özel karakterleri girebilirsiniz.</p><p>Üstteki iki yeşil tuş önemlidir. <b>*</b> okunamayan tek bir harf demektir. <b>∞</b> ise adedi bilinmeyen, bir veya birden fazla okunamayan harf anlamına gelir. Aramanız sonuç vermiyorsa, emin olmadığınız kısma bu işaretleri koyarak aramayı genişletebilirsiniz.</p><p>Bir kutuya birden fazla harf de girebilirsiniz. و, د ve ر gibi birbirine karışan harflerde, ihtimallerin hepsini aynı kutuya koyup hepsini birden aratmış olursunuz.</p></article><article class="block" id="ipucu-dolu"><h3>Doldurulmuş bir örnek</h3><p>Aşağıda okunabilen harflerin girildiği, okunamayan bir harf için <b>*</b> bırakılan ve harfler arası bitişiklik durumunun işaretlendiği bir çözücü satırı görünüyor. <b>Ara</b> düğmesine bastığınızda bu ölçütlere uyan kelimeler listelenir.</p><figure class="shot " style="--s:.68;--nw:669;--ar:5.3095"><img src="../assets/kilavuz/b3-1.webp?v=2" width="669" height="126" loading="lazy" alt=""></figure></article><article class="block" id="cozucu-sonuclar"><h3>Sonuçlar</h3><p><b>Sonuç</b>: aradığınız ölçütlere uyan kelimenin kendisi, Osmanlıca yazılışı ve Latin okunuşuyla birlikte.</p><p><b>Kategori</b>: bu kelimenin bulunduğu sözlük maddesiyle ilişkisi.</p><p><b>Madde Başı</b>: kelimenin geçtiği maddenin başlığı. Sonuç kelimesinin kendisi bir madde başı olabileceği gibi, başka bir maddenin içinde de geçiyor olabilir.</p><p><b>Sözlük</b>: kaydın alındığı eser, basım yılı ve sayfa numarası.</p><figure class="shot " style="--nw:1680;--ar:1.1483"><img src="../assets/kilavuz/c1-1.webp?v=10" width="1680" height="1463" loading="lazy" alt=""></figure></article></section><section aria-labelledby="cozucu-sonuc"><h2 id="cozucu-sonuc">Kelime Çözücü Sonuçları</h2><p class="section-intro">Çözücüyle yapılan aramanın sonuç sayfası, yukarıda anlatılan listeyle aynı şekilde çalışır. Yalnızca iki farkı vardır.</p><article class="block" id="ipuclarina-gore"><h3>İpuçlarına göre</h3><p>Sonuçların üstünde, aramayı hangi ipuçlarıyla yaptığınız kutu dizisi halinde durur. Böylece listeye bakarken hangi harfleri girdiğinizi, nereye <b>*</b> veya <b>∞</b> koyduğunuzu görebilirsiniz.</p><p>Sonuç sayısının yanındaki <b>İpuçlarına göre</b> ifadesi de listenin bu ölçütlere göre oluşturulduğunu belirtir.</p><figure class="shot " style="--nw:1664;--ar:4.9672"><img src="../assets/kilavuz/e1-1.webp?v=2" width="1664" height="335" loading="lazy" alt=""></figure></article><article class="block" id="daha-fazla"><h3>Daha fazla sonuç</h3><p>Çözücü aramaları çok sayıda sonuç verebildiği için liste bir kısmıyla açılır. Sayfanın altındaki düğme kaç sonucun gösterildiğini ve geriye kaç tane kaldığını söyler; bastığınızda listenin devamı yüklenir.</p><figure class="shot shot-narrow" style="--nw:750;--ar:5.0000"><img src="../assets/kilavuz/e2-1.webp" width="750" height="150" loading="lazy" alt=""></figure></article></section>
       </main>
   </div>
 </div>
